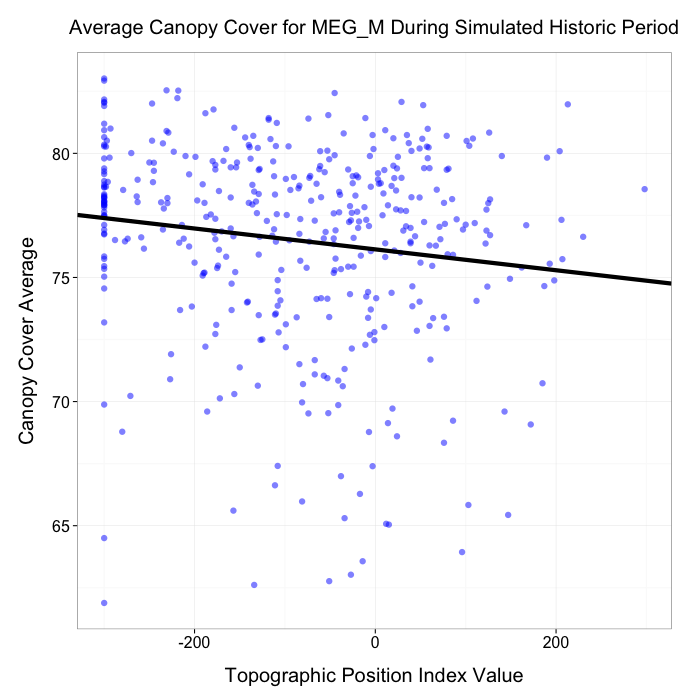
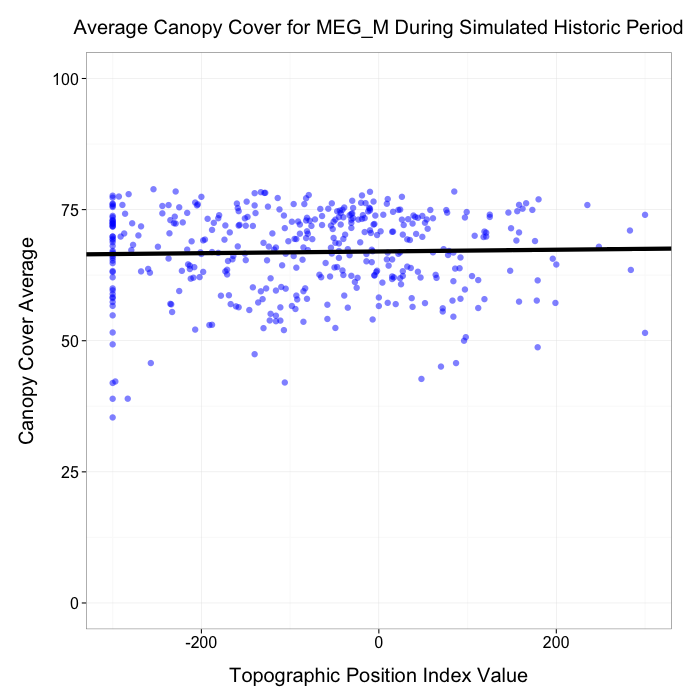
update end of day 7/1 after fixing TPI stuff
Changes to be committed:
	modified:   ../3_Results.tex
	modified:   TPI_cc_megm.png
	modified:   TPI_cc_megx.png
	modified:   TPI_cc_ocfw.png
	modified:   TPI_cc_ocfwu.png
	modified:   TPI_cc_rfrm.png
	modified:   TPI_cc_rfrx.png
	modified:   TPI_cc_smcm.png
	modified:   TPI_cc_smcu.png
	modified:   TPI_cc_smcx.png

diff --git a/3_Results.tex b/3_Results.tex
@@ -151,14 +151,15 @@ As described in Section \ref{subsubsec:distparams}, we specified a target set of
 
 The topographic position index value for a given cell acts as an input into the susceptibility and mortality values otherwise defined for that cover type and condition class combination. In general, cells with smaller TPI values had reduced susceptibility and mortality. Early development and open canopy conditions tend to result from fire, and we predicted that an increase in fires and in the likelihood of high mortality fire would lead to a decrease in the average canopy cover values for cells with large TPI values. Table \ref{tab:tpi_cc} displays the results for this simulation for the nine focal cover types. All but one (\textsc{ocfw\_u}) show decreased average canopy cover as TPI increases, with the decrease ranging from 3.3\% in Mixed Evergreen - Mesic to 36.4\% in Sierran Mixed Conifer - Ultramafic. Figure \ref{fig:tpi_cc} shows the plotted data and fitted linear regression line for each of the nine focal types. Figure \ref{fig:averagecc} \todo{Smoothed version on Z Drive} is a map displaying average canopy cover across the landscape for the full simulated HRV timeframe, excluding the equilibration period. \todo{also have a faceted figure that shows all types on the same y axis/scale - for appendix?}
 
-%\begin{figure}[!htbp]
-%\centering
-%\includegraphics[width=0.8\textwidth]{/Users/mmallek/Tahoe/Report2/images/averagecc.jpg}
-%\caption{Smoothed visualization of the average canopy cover across the project area over the course of the simulation. Higher percent cover is shown in blue, transitioning to red where average percent cover was low.}
-%\label{fig:averagecc}
-%\end{figure}
+\todo{figure redone}
+\begin{figure}[!htbp]
+\centering
+\includegraphics[width=0.8\textwidth]{/Users/mmallek/Tahoe/Report2/images/averagecc.jpg}
+\caption{Smoothed visualization of the average canopy cover across the project area over the course of the simulation. Higher percent cover is shown in blue, transitioning to red where average percent cover was low.}
+\label{fig:averagecc}
+\end{figure}
 
-
+\todo{table is updated}
 \begin{table}[!htbp]
 \caption{For each cover type on the landscape, the percent change in canopy cover from the minimum TPI value for that cover type to the maximum TPI value.}
 \label{tab:tpi_cc}
@@ -166,19 +167,27 @@ The topographic position index value for a given cell acts as an input into the 
 \begin{tabular}{@{}llllll@{}}
 \toprule
 \small \textbf{\begin{tabular}[c]{@{}l@{}}Cover \\ Name\end{tabular}} & \small \textbf{\begin{tabular}[c]{@{}l@{}}Minimum \\ TPI\end{tabular}} & \small \textbf{\begin{tabular}[c]{@{}l@{}}Maximum \\ TPI\end{tabular}} & \small \textbf{\begin{tabular}[c]{@{}l@{}}Average Canopy \\Cover at \\ Minimum TPI\end{tabular}} & \small \textbf{\begin{tabular}[c]{@{}l@{}}Average Canopy \\ Cover at \\ Maximum TPI\end{tabular}}  & \small \textbf{\begin{tabular}[c]{@{}l@{}}Percent \\ Change in \\ Canopy \\ Cover\end{tabular}} \\ \midrule
-MEG\_M       & -300                 & 300                  & 77.4         & 74.9              &  -3.3      \\
-MEG\_X       & -299                 & 300                  & 77.8         & 75.0              &  -3.6      \\
-OCFW         & -300                 & 300                  & 57.7         & 53.2              &  -7.8      \\
-OCFW\_U      & -300                 & 300                  & 21.3         & 22.0              &   2.9       \\
-RFR\_M       & -300                 & 300                  & 72.0         & 64.0              & -11.2     \\
-RFR\_X       & -259                 & 300                  & 40.9         & 29.1              & -28.8     \\
-SMC\_M       & -300                 & 300                  & 58.8         & 53.5              &  -9.1      \\
-SMC\_U       & -300                 & 300                  & 39.2         & 25.0              & -36.4     \\
-SMC\_X       & -300                 & 300                  & 30.8         & 24.4              & -20.9     \\ \bottomrule
+MEG\_M       & -300                 & 300                  & 66.5         & 67.5              &  1.5      \\
+MEG\_X       & -299                 & 300                  & 64.1         & 66.4              &  3.8      \\
+OCFW         & -300                 & 300                  & 49.6         & 46.5              &  -6.2      \\
+OCFW\_U      & -300                 & 300                  & 25.0         & 22.8              &  -9.0       \\
+RFR\_M       & -300                 & 300                  & 65.2         & 58.9              &  -9.7     \\
+RFR\_X       & -259                 & 300                  & 49.0         & 33.0              & -32.4     \\
+SMC\_M       & -300                 & 300                  & 48.8         & 42.6              & -12.6      \\
+SMC\_U       & -300                 & 300                  & 36.7         & 28.3              & -22.7     \\
+SMC\_X       & -300                 & 300                  & 35.9         & 26.9              & -24.9     \\ \bottomrule
 \end{tabular}
 %}
 \end{table}
 
+\todo{figure is redone}
+\begin{figure}[!htbp]
+\centering
+\includegraphics[width=\textwidth]{/Users/mmallek/Tahoe/Report2/images/TPI_cc_focaltypes.png}
+\label{fig:tpi_cc_focaltypes}
+\caption{Average canopy cover for the nine focal cover types during the simulated. Each blue point represents one pixel of an individual cover type on the landscape grid. The black line is the result of a linear regression fit to the data. Table \ref{tab:tpi_cc} provides the numerical representation of the shift from minimum to maximum TPI values for each cover type. (a) Mixed Evergreen - Mesic; (b) Mixed Evergreen - Xeric; (c) Oak-Conifer Forest and Woodland; (d) Oak-Conifer Forest and Woodland - Ultramafic; (e) Red Fir - Mesic; (f) Red Fir - Xeric; (g) Sierran Mixed Conifer - Mesic; (h) Sierran Mixed Conifer - Ultramafic; (i) Sierran Mixed Conifer - Xeric.}
+\label{fig:tpi_cc}
+\end{figure}
 
 
 %\begin{figure}[!htbp]
